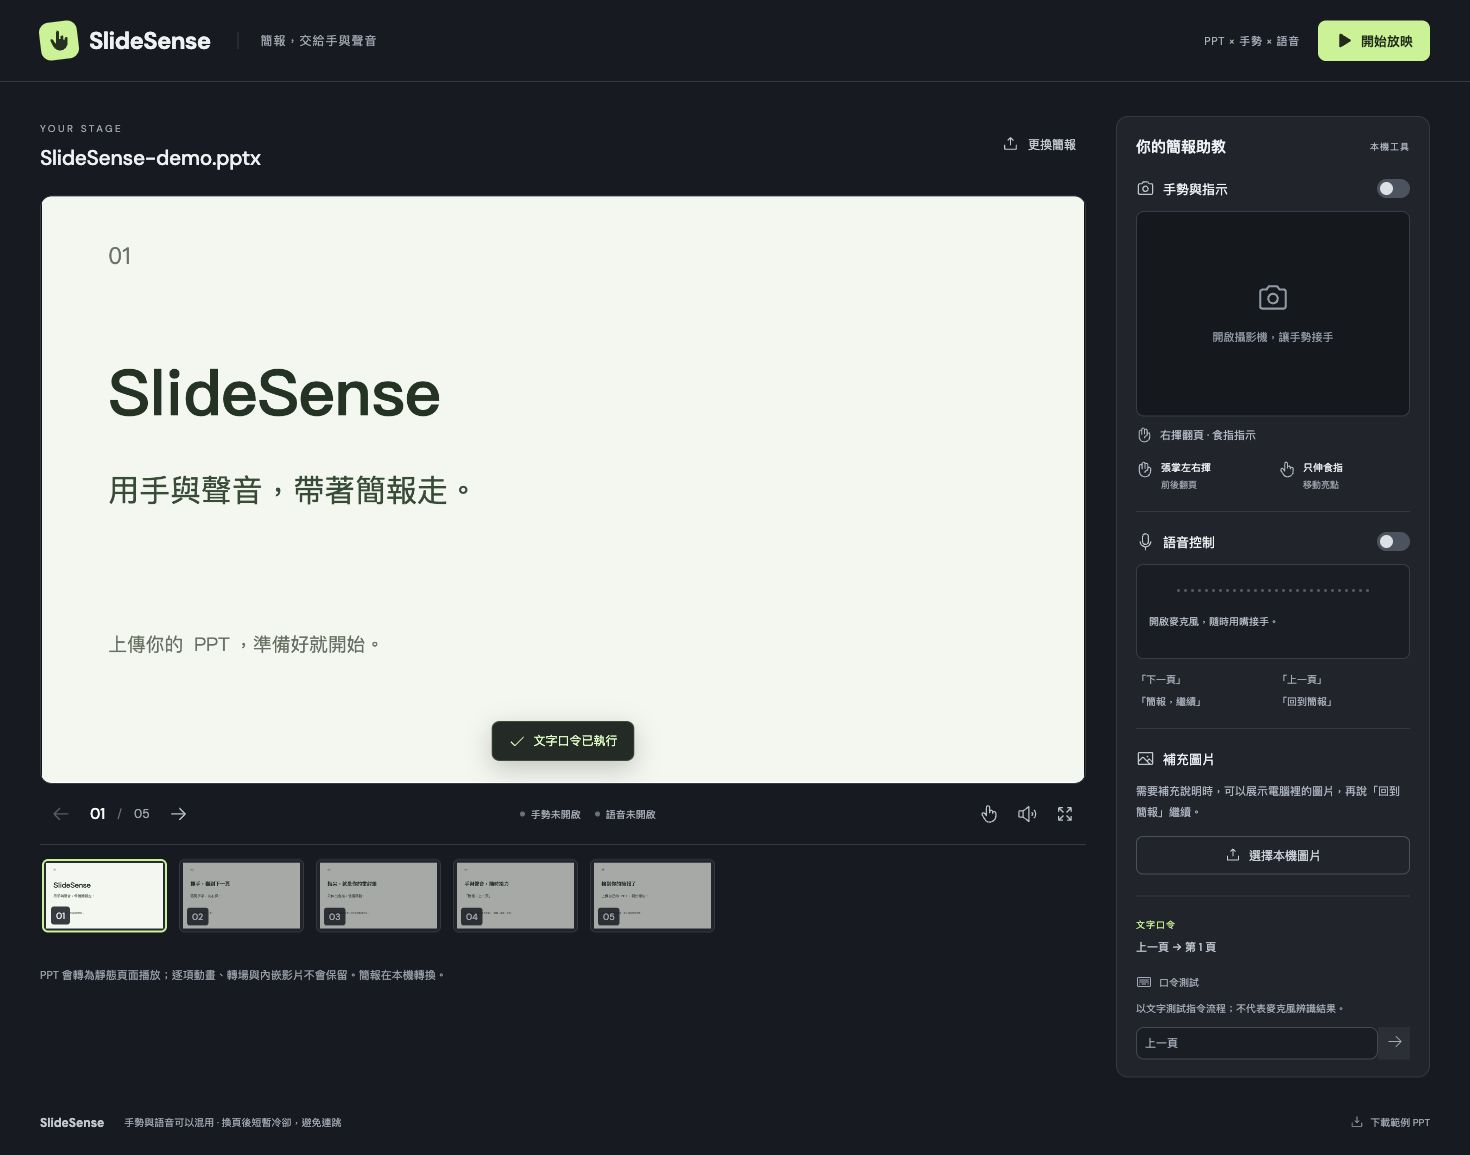
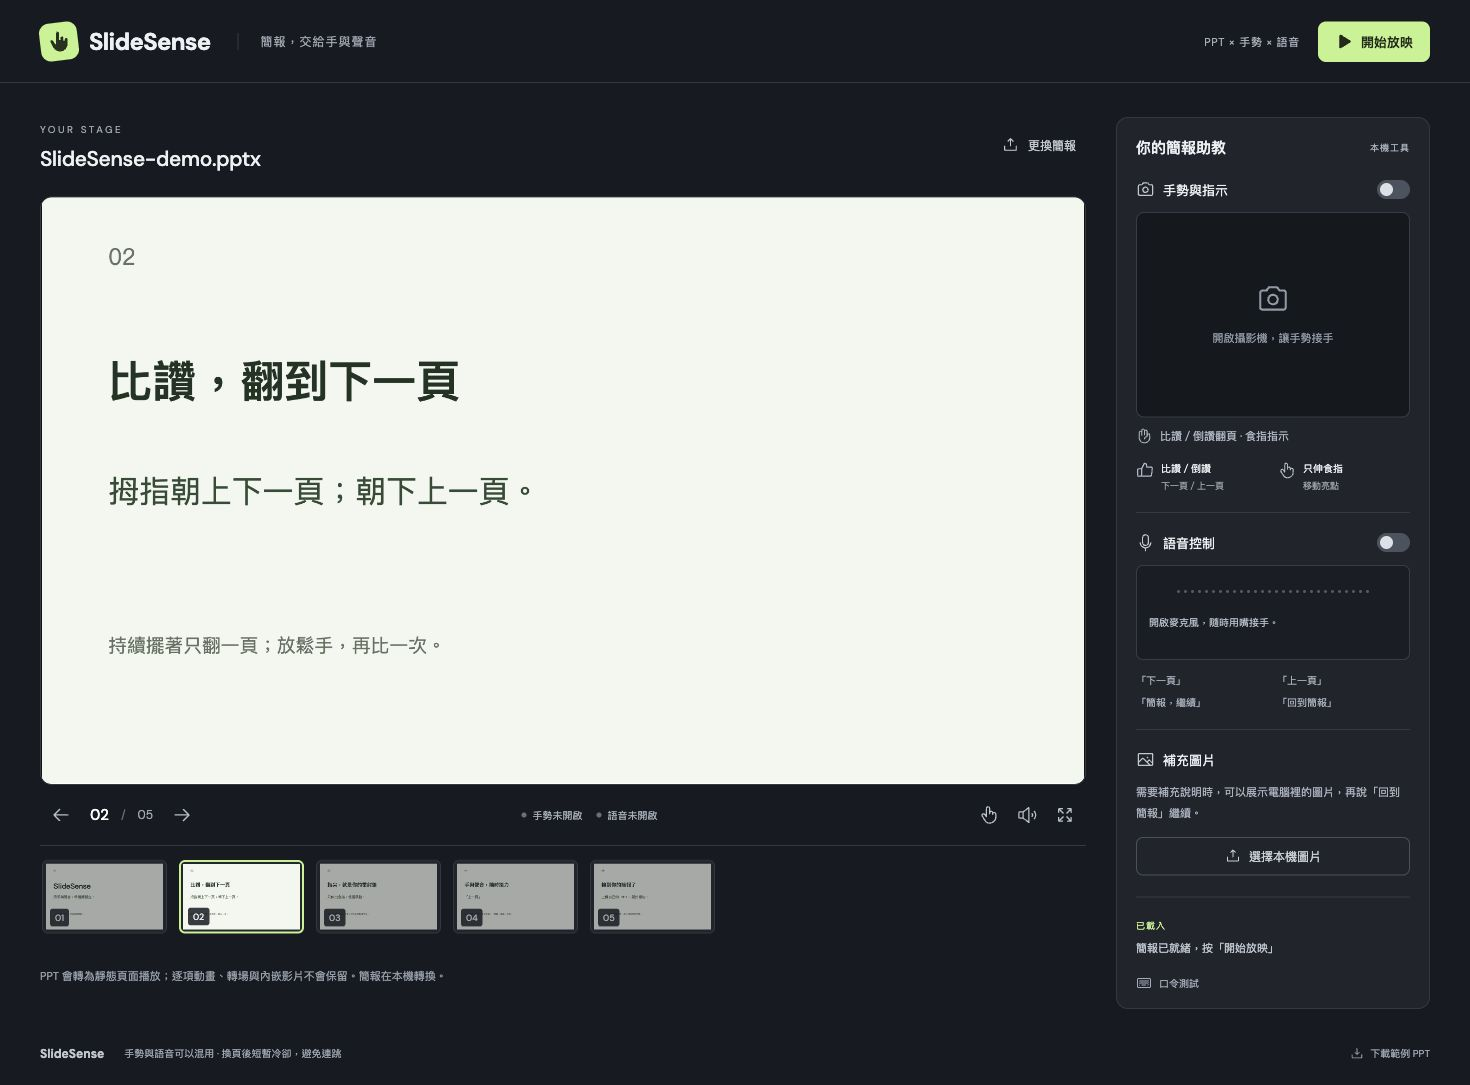
Refresh README screenshot for thumb and direct voice controls

diff --git a/README.md b/README.md
@@ -2,7 +2,9 @@
 
 上傳 PowerPoint，用手勢與中文語音交替控制簡報，食指就是畫面上的指示亮點。
 
-![SlideSense 播放介面](docs/preview.jpg)
+![SlideSense 最新播放介面：比讚／倒讚翻頁、食指指示與直接語音口令](docs/preview.jpg?v=thumbs-20261004)
+
+目前版本：比讚下一頁、倒讚上一頁、食指指示；語音直接說「下一頁／上一頁」。上圖使用內建範例，攝影機與麥克風尚未開啟。
 
 ## 功能
 
